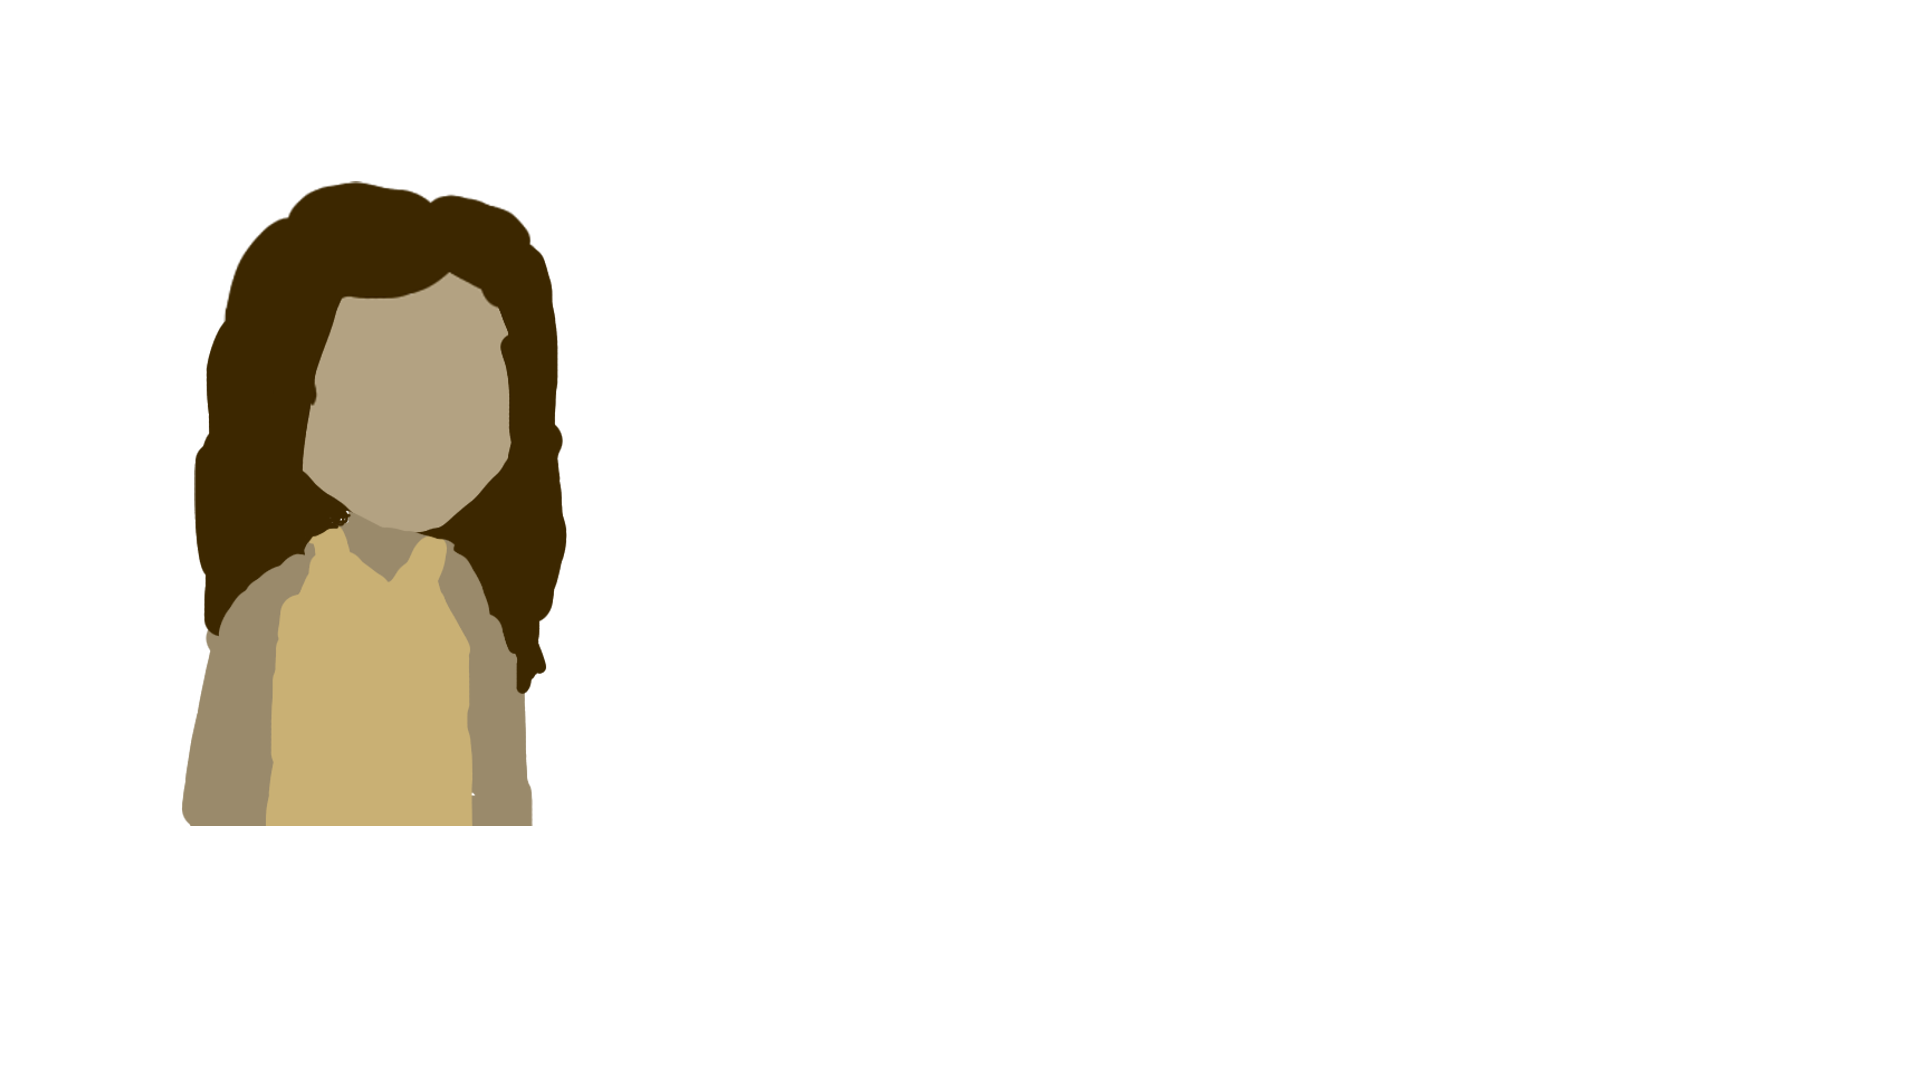
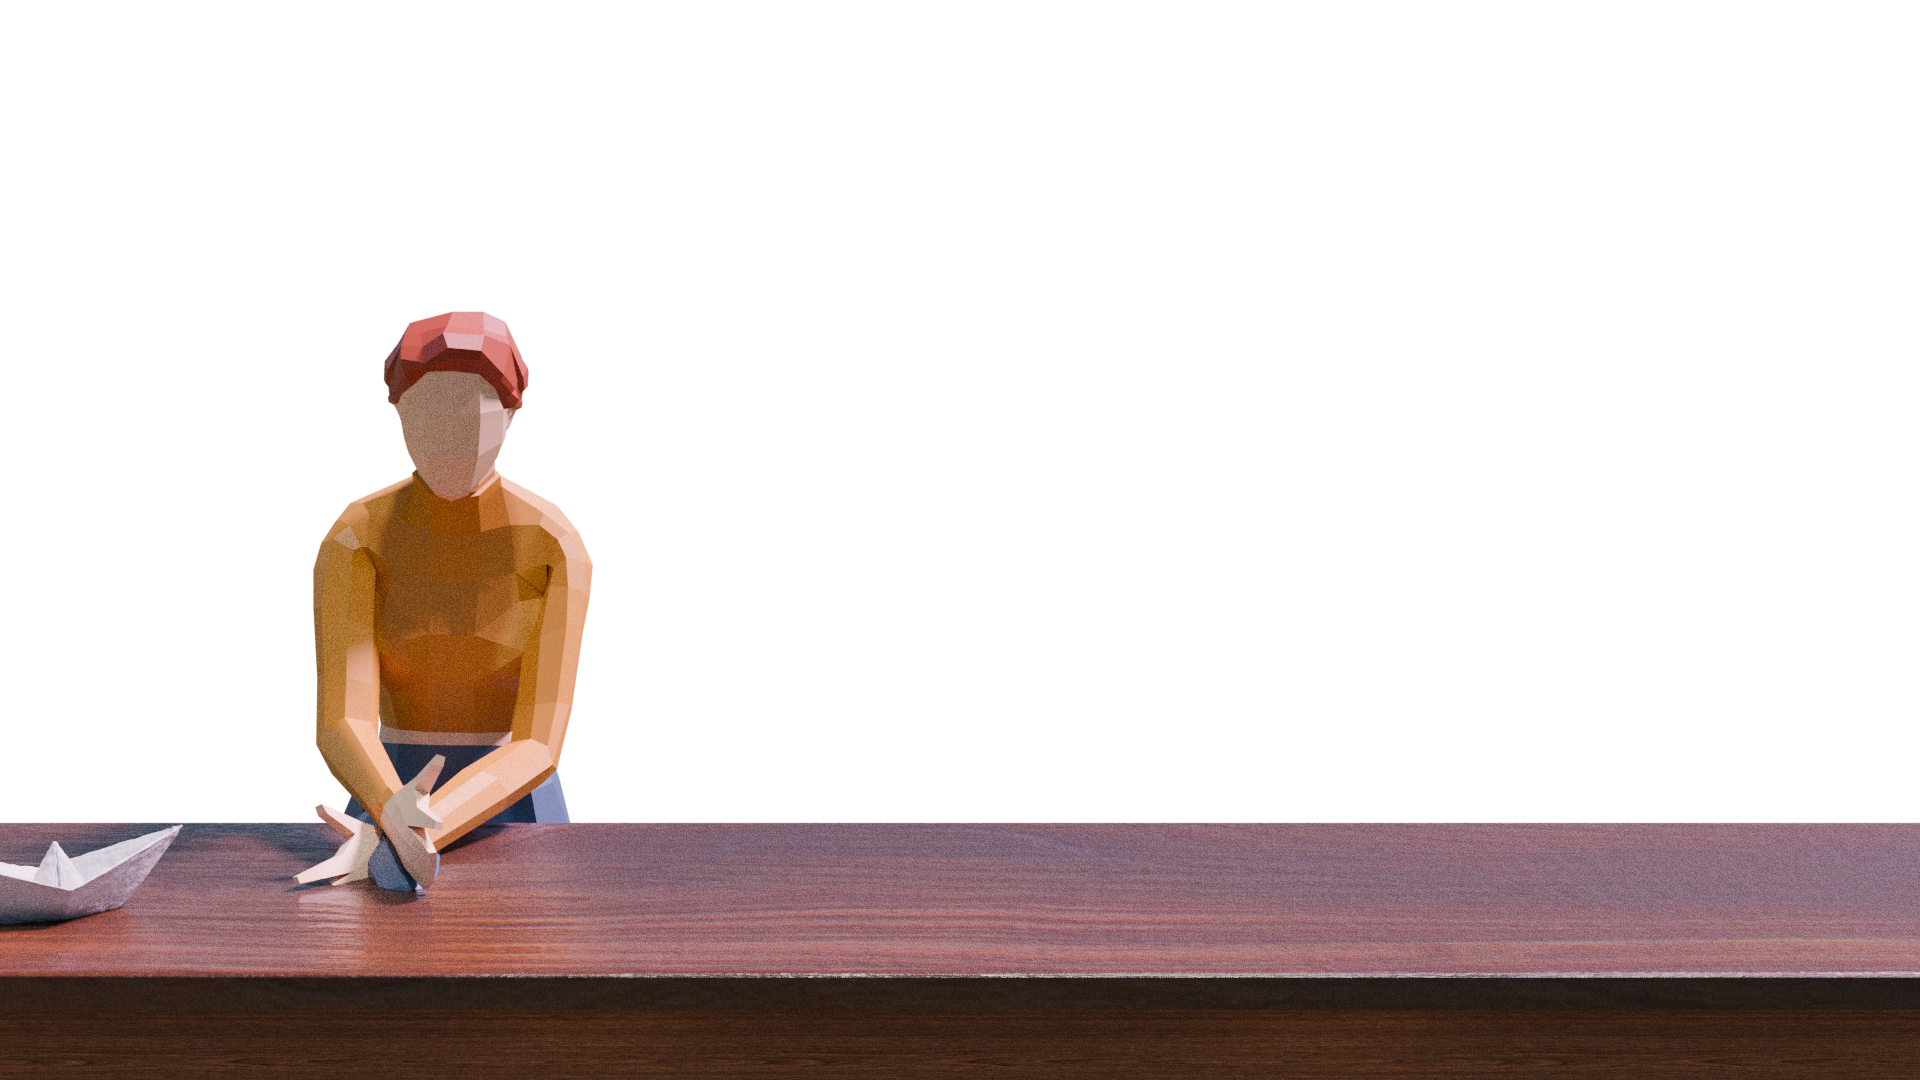
asset update

diff --git a/src/Systems/CharacterSpawner/CharacterSpawner.cs b/src/Systems/CharacterSpawner/CharacterSpawner.cs
@@ -26,7 +26,9 @@ public partial class CharacterSpawner : Node {
 	}
 
 	public void SetNewCustomer(TimeOfDay timeOfDay) {
-		float val = rng.Randf();
+		// float val = rng.Randf();
+		float val = 0.1f;
+		oneDrinkServedCorrectly = true;
 		if (val < specialCharacterProbability && oneDrinkServedCorrectly) {
 			// get special character
 			isUniqueCharacter = true;
